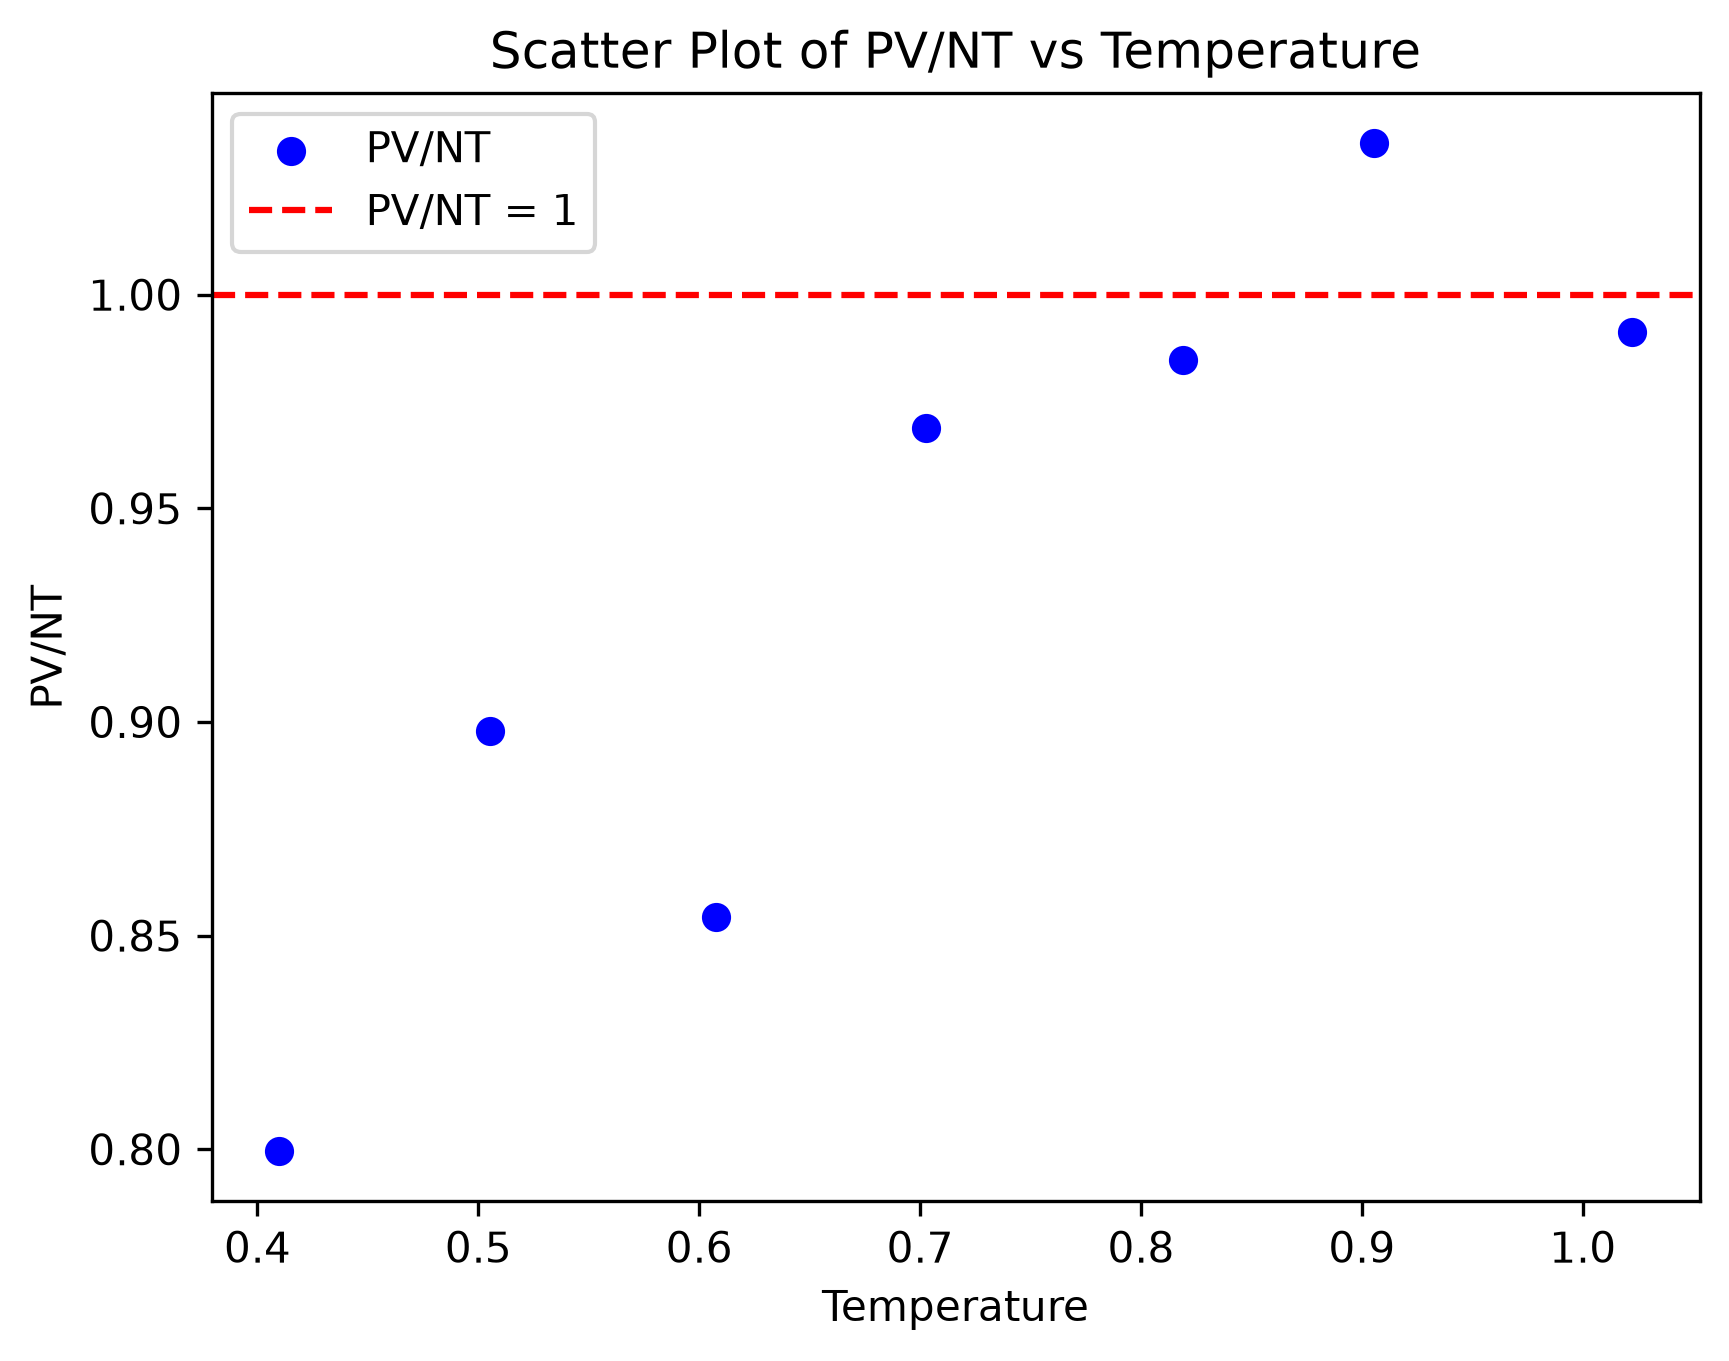
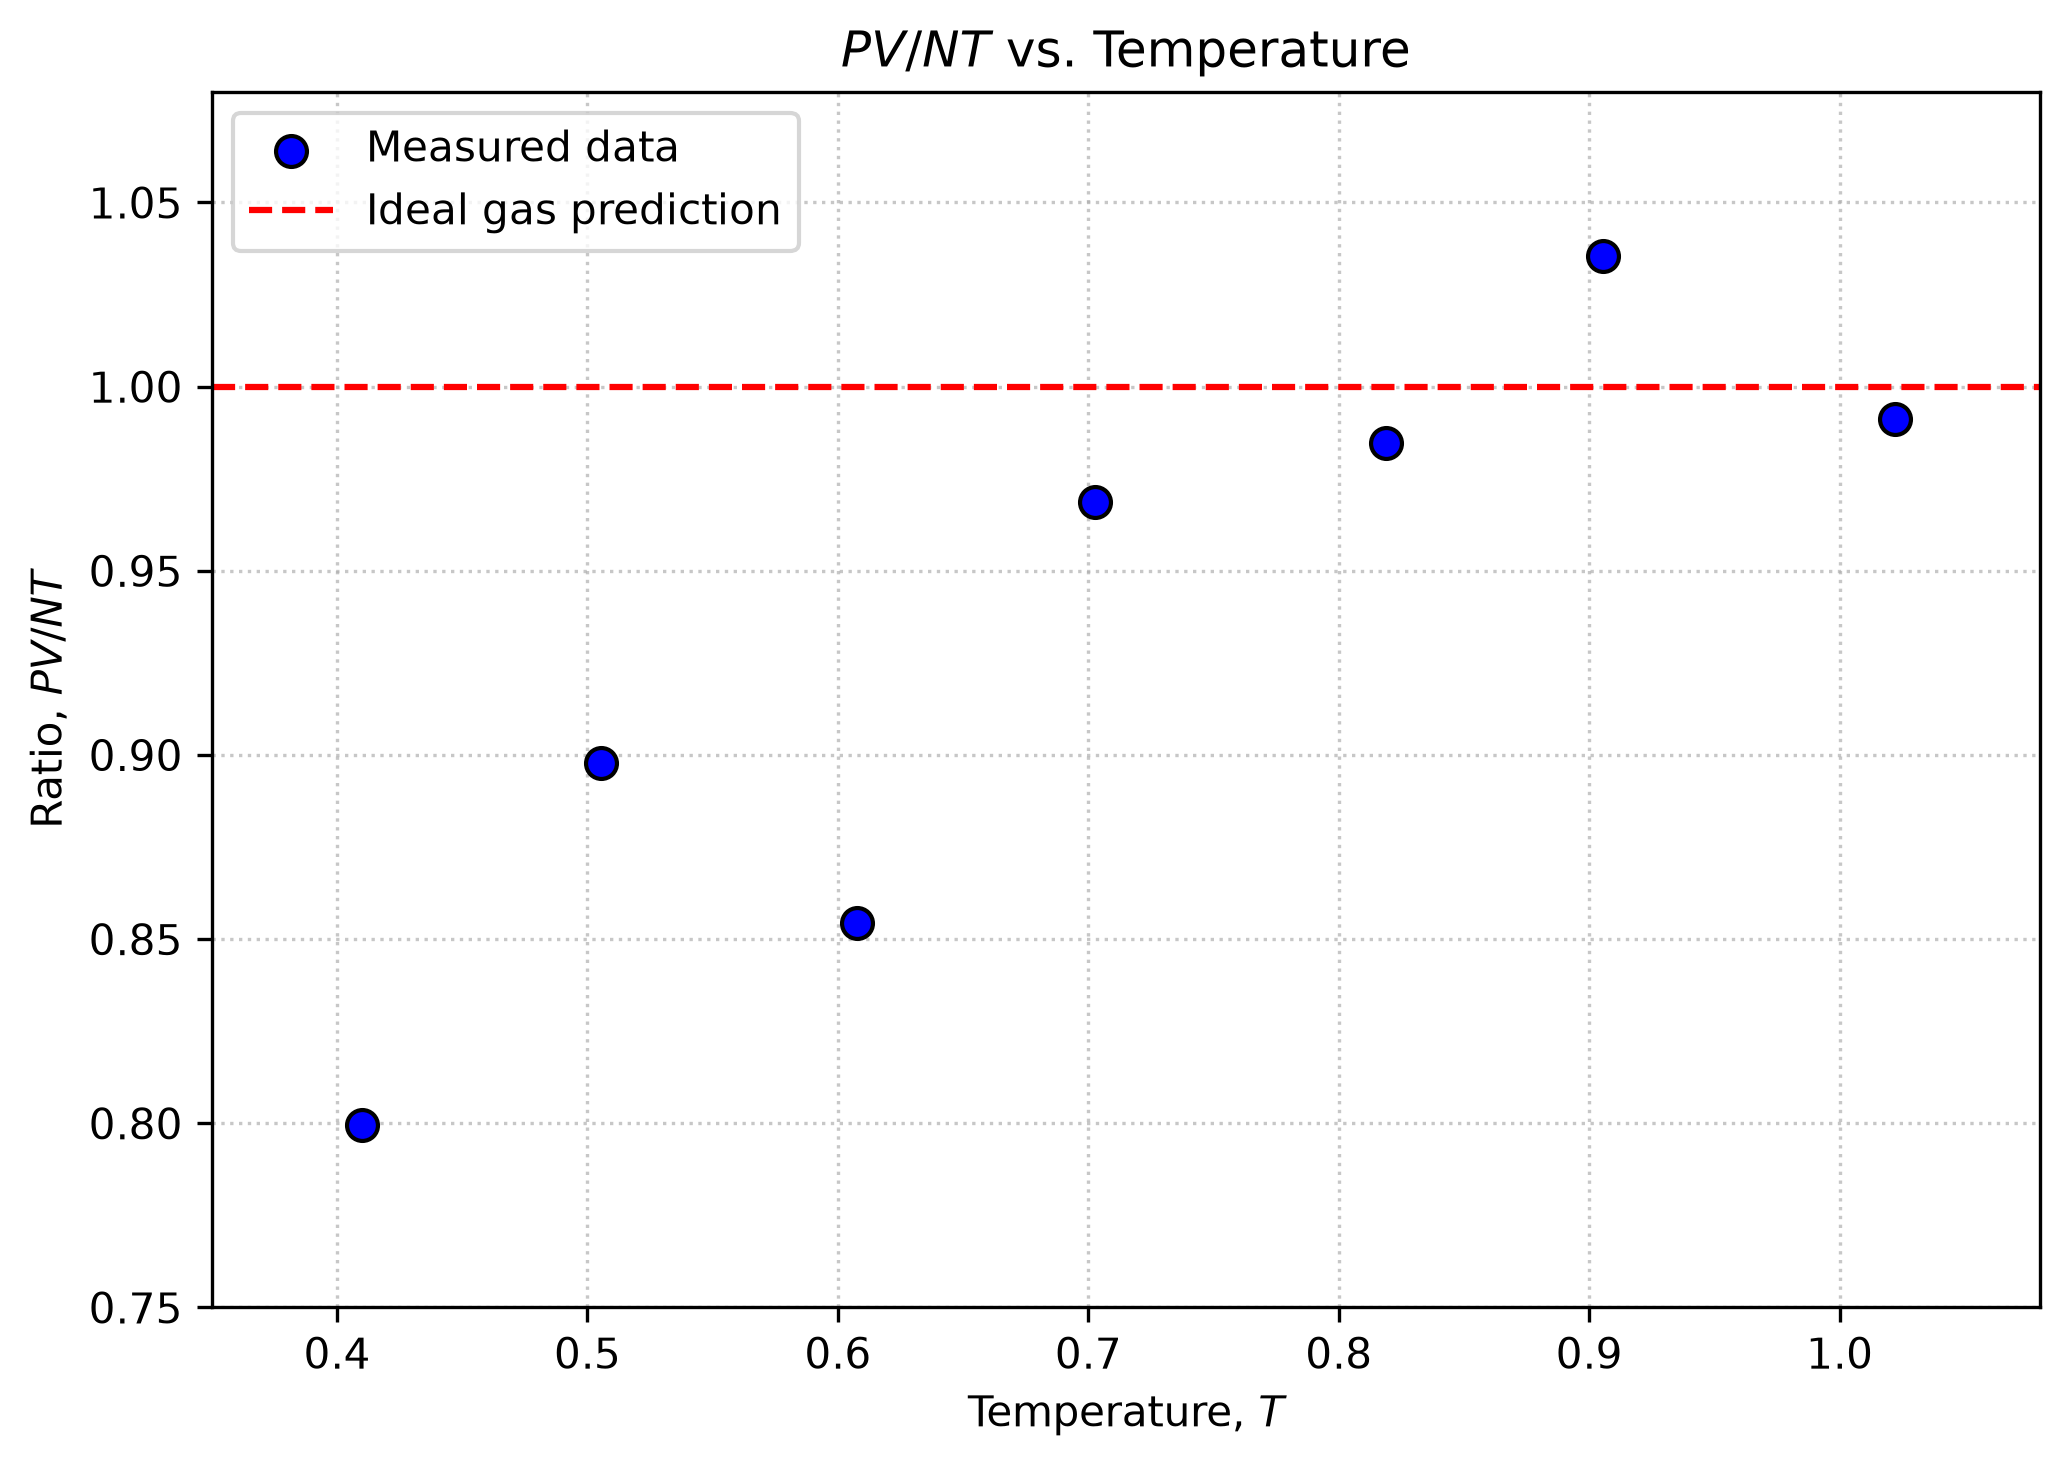
PDMS calc

diff --git a/PDMS_Calc.py b/PDMS_Calc.py
@@ -1,0 +1,37 @@
+from numpy import pi
+
+
+
+InD_R = float(input("Enter the inner diameter of the dish in mm: ")) / 2
+H = float(input("Enter the desired sheet height in mm: "))
+
+# Volume in mm^3
+v = pi * (InD_R ** 2) * H
+
+# 10:1 volume ratio
+PDMS_base_volume = v * 10 / 11
+PDMS_curing_volume = v / 11
+
+# Enter densities from your PDMS product datasheet in g/cm^3
+base_density = float(input("Enter PDMS base density in g/cm^3: "))
+curing_density = float(input("Enter curing agent density in g/cm^3: "))
+
+# Convert volumes from mm^3 to cm^3
+PDMS_base_volume_cm3 = PDMS_base_volume / 1000
+PDMS_curing_volume_cm3 = PDMS_curing_volume / 1000
+
+# Calculate masses
+PDMS_base_mass = PDMS_base_volume_cm3 * base_density
+PDMS_curing_mass = PDMS_curing_volume_cm3 * curing_density
+total_mass = PDMS_base_mass + PDMS_curing_mass
+
+PDMS_base_mass = total_mass * 10 / 11
+PDMS_curing_mass = total_mass / 11
+
+print("-- PDMS Mass Calculation --")
+print(f"Total volume: {v:.2f} mm^3")
+print(f"PDMS base: {PDMS_base_mass:.4f} g")
+print(f"Curing agent: {PDMS_curing_mass:.4f} g")
+print(f"Total mass: {total_mass:.4f} g")
+
+

diff --git a/Phys320_CompLab1_09_12_2026.py b/Phys320_CompLab1_09_12_2026.py
@@ -16,11 +16,41 @@ y = [0.9912355703,
 0.8978626558,
 0.7995729624]
 
-plt.scatter(x,y, color='blue', label='PV/NT')
-plt.axhline(y=1, color='red', linestyle='--', label='PV/NT = 1')
-plt.xlabel('Temperature')
-plt.ylabel('PV/NT')
-plt.title('Scatter Plot of PV/NT vs Temperature')
-plt.legend()
-plt.savefig('PV_NT_vs_Temperature.png',dpi=300, bbox_inches="tight")
+fig, ax = plt.subplots(figsize=(7, 5))
+
+ax.scatter(
+    x,
+    y,
+    color="blue",
+    edgecolor="black",
+    s=55,
+    label="Measured data",
+    zorder=3
+)
+
+ax.axhline(
+    1,
+    color="red",
+    linestyle="--",
+    linewidth=1.5,
+    label="Ideal gas prediction"
+)
+
+ax.set_xlabel(r"Temperature, $T$")
+ax.set_ylabel(r"Ratio, $PV/NT$")
+ax.set_title(r"$PV/NT$ vs. Temperature")
+
+ax.set_xlim(0.35, 1.08)
+ax.set_ylim(0.75, 1.08)
+
+ax.grid(True, linestyle=":", alpha=0.7)
+ax.legend(loc="upper left")
+fig.tight_layout()
+
+fig.savefig(
+    "PV_NT_vs_Temperature.png",
+    dpi=300,
+    bbox_inches="tight"
+)
+
 plt.show()
